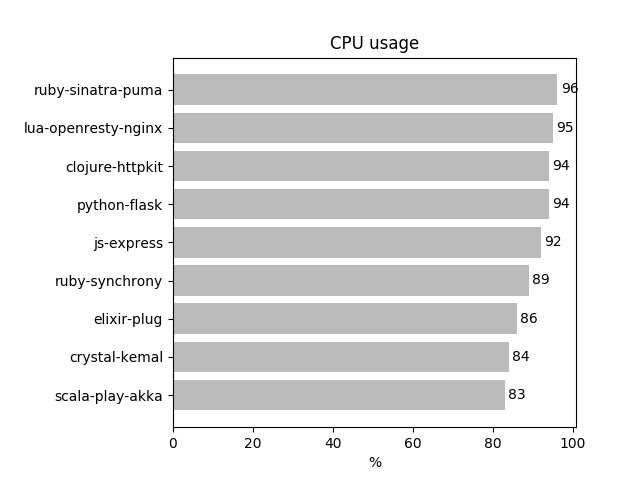
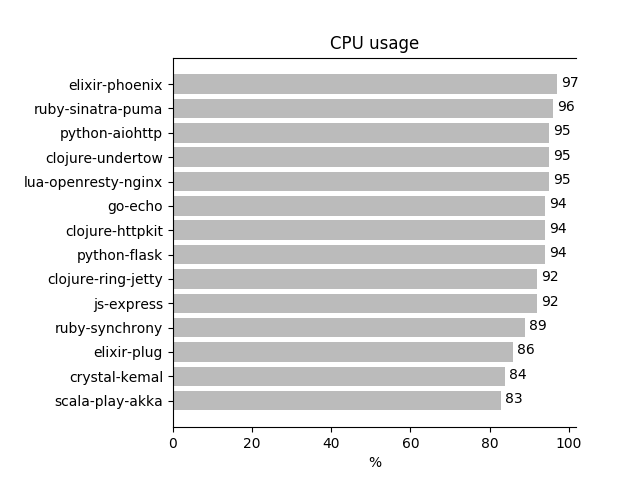
Update results

diff --git a/plot.py b/plot.py
@@ -51,6 +51,7 @@ def create_chart(data, outdir, name, endpoint='/db', stat_name='reqs', legend='R
     plt.xlabel(legend)
     plt.title(name)
     plt.subplots_adjust(left=0.27)
+    plt.gca().spines['right'].set_visible(False)
     plt.savefig(os.path.join(outdir, name.replace(' ', '_') + '.png'), transparent=False)
     plt.cla()
     plt.clf()
@@ -61,12 +62,12 @@ def generate_all(in_file, outdir):
         raise 'No endpoint found in the filename!'
     e = '/' + m.group()
     chart_it = partial(create_chart, generate_data_for_chart(in_file), os.path.join(outdir, e[1:]))
-    chart_it('Requests per second', endpoint=e, stat_name='reqs', legend='Requests', color='#6497b1')
+    chart_it('Requests per second', endpoint=e, stat_name='reqs', legend='Requests', color='#ffe084')
     chart_it('Memory usage', endpoint=e, stat_name='mem', legend='Mb', color='#dec3c3')
     chart_it('CPU usage', endpoint=e, stat_name='cpu', legend='%', color='#bbbbbb')
     chart_it('Failed requests', endpoint=e, stat_name='failed', legend='requests', color='#ff6f69')
     chart_it('Latency for 50-percentile', endpoint=e, stat_name='lat-50', legend='seconds', color='#3c2f2f')
-    chart_it('Latency for 99-percentile', endpoint=e, stat_name='lat-99', legend='seconds', color='#3385c6')
+    chart_it('Latency for 99-percentile', endpoint=e, stat_name='lat-99', legend='seconds', color='#9F8170')
 
 if __name__ == '__main__':
     generate_all(ARGS.file, ARGS.dir)

diff --git a/_results/benchmark-results-json-2sec.md b/_results/benchmark-results-json-2sec.md
@@ -196,3 +196,113 @@ Results:
 | Test command                    | wrk -t12 -c400 -d240s http://localhost:8080/json -s wrk_report.lua --timeout 10s  |
 | Data read                       | 600.79MB  |
 ==========================
+
+==========================
+Date: Tue Mar 10 12:00:26 2020
+Results:
+
+| Param                           | Value |
+| :---                            | :--- |
+| Framework                       | clojure-ring-jetty |
+| Endpoint                        | /json  |
+| Endpoint sleep sec. (if applicable) | 2  |
+| Requests/sec                    | 1448.08 |
+| Req. Latency (Avg.)             | 167.02ms |
+| Req. Latency (%'le - latency)   | [('50', '0.163'), ('70', '0.201'), ('90', '0.282'), ('99', '0.503'), ('99.9', '0.978'), ('99.999', '6.128')] |
+| 5xx/4xx responses               | 0 |
+| N timeout-ed                    | 0  |
+| Memory used (mean), Mib         | 143 |
+| Memory used samples, Mib        | [143, 143, 143, 143, 143] |
+| CPU used (mean), %              | 92 |
+| CPU used samples, %             | [99.9, 93.8, 87.5, 87.5, 93.8] |
+| Test command                    | wrk -t12 -c400 -d240s http://localhost:8080/json -s wrk_report.lua --timeout 10s  |
+| Data read                       | 147.98MB  |
+==========================
+
+==========================
+Date: Tue Mar 10 12:36:30 2020
+Results:
+
+| Param                           | Value |
+| :---                            | :--- |
+| Framework                       | go-echo |
+| Endpoint                        | /json  |
+| Endpoint sleep sec. (if applicable) | 2  |
+| Requests/sec                    | 4837.93 |
+| Req. Latency (Avg.)             | 48.54ms |
+| Req. Latency (%'le - latency)   | [('50', '0.051'), ('70', '0.056'), ('90', '0.063'), ('99', '0.082'), ('99.9', '0.111'), ('99.999', '0.146')] |
+| 5xx/4xx responses               | 0 |
+| N timeout-ed                    | 0  |
+| Memory used (mean), Mib         | 13 |
+| Memory used samples, Mib        | [13, 13, 13, 13, 13] |
+| CPU used (mean), %              | 94 |
+| CPU used samples, %             | [99.9, 87.5, 93.8, 93.8, 93.8] |
+| Test command                    | wrk -t12 -c400 -d240s http://localhost:8080/json -s wrk_report.lua --timeout 10s  |
+| Data read                       | 561.96MB  |
+==========================
+
+==========================
+Date: Tue Mar 10 14:27:22 2020
+Results:
+
+| Param                           | Value |
+| :---                            | :--- |
+| Framework                       | clojure-undertow |
+| Endpoint                        | /json  |
+| Endpoint sleep sec. (if applicable) | 2  |
+| Requests/sec                    | 1686.77 |
+| Req. Latency (Avg.)             | 152.03ms |
+| Req. Latency (%'le - latency)   | [('50', '0.137'), ('70', '0.151'), ('90', '0.196'), ('99', '0.356'), ('99.9', '4.857'), ('99.999', '7.300')] |
+| 5xx/4xx responses               | 0 |
+| N timeout-ed                    | 0  |
+| Memory used (mean), Mib         | 160 |
+| Memory used samples, Mib        | [159, 159, 160, 161, 161] |
+| CPU used (mean), %              | 95 |
+| CPU used samples, %             | [93.8, 93.8, 99.9, 93.8, 93.8] |
+| Test command                    | wrk -t12 -c400 -d240s http://localhost:8080/json -s wrk_report.lua --timeout 10s  |
+| Data read                       | 169.67MB  |
+==========================
+
+==========================
+Date: Tue Mar 10 15:57:09 2020
+Results:
+
+| Param                           | Value |
+| :---                            | :--- |
+| Framework                       | elixir-phoenix |
+| Endpoint                        | /json  |
+| Endpoint sleep sec. (if applicable) | 2  |
+| Requests/sec                    | 1535.64 |
+| Req. Latency (Avg.)             | 154.63ms |
+| Req. Latency (%'le - latency)   | [('50', '0.153'), ('70', '0.155'), ('90', '0.168'), ('99', '0.206'), ('99.9', '0.279'), ('99.999', '0.355')] |
+| 5xx/4xx responses               | 0 |
+| N timeout-ed                    | 0  |
+| Memory used (mean), Mib         | 67 |
+| Memory used samples, Mib        | [69, 66, 66, 66, 66] |
+| CPU used (mean), %              | 97 |
+| CPU used samples, %             | [99.9, 93.3, 93.8, 99.9, 99.9] |
+| Test command                    | wrk -t12 -c400 -d240s http://localhost:8080/json -s wrk_report.lua --timeout 10s  |
+| Data read                       | 181.97MB  |
+==========================
+
+==========================
+Date: Tue Mar 10 16:28:17 2020
+Results:
+
+| Param                           | Value |
+| :---                            | :--- |
+| Framework                       | python-aiohttp |
+| Endpoint                        | /json  |
+| Endpoint sleep sec. (if applicable) | 2  |
+| Requests/sec                    | 2145.71 |
+| Req. Latency (Avg.)             | 110.18ms |
+| Req. Latency (%'le - latency)   | [('50', '0.110'), ('70', '0.111'), ('90', '0.117'), ('99', '0.150'), ('99.9', '0.223'), ('99.999', '0.371')] |
+| 5xx/4xx responses               | 0 |
+| N timeout-ed                    | 0  |
+| Memory used (mean), Mib         | 33 |
+| Memory used samples, Mib        | [33, 33, 33, 33, 33] |
+| CPU used (mean), %              | 95 |
+| CPU used samples, %             | [93.3, 99.9, 93.8, 87.5, 99.9] |
+| Test command                    | wrk -t12 -c400 -d240s http://localhost:8080/json -s wrk_report.lua --timeout 10s  |
+| Data read                       | 240.89MB  |
+==========================

diff --git a/_results/benchmark-results-db-2sec.md b/_results/benchmark-results-db-2sec.md
@@ -195,3 +195,91 @@ Results:
 | Test command                    | wrk -t12 -c400 -d240s http://localhost:8080/db -s wrk_report.lua --timeout 10s  |
 | Data read                       | 1.49GB  |
 ==========================
+
+==========================
+Date: Tue Mar 10 12:09:09 2020
+Results:
+
+| Param                           | Value |
+| :---                            | :--- |
+| Framework                       | clojure-ring-jetty |
+| Endpoint                        | /db  |
+| Endpoint sleep sec. (if applicable) | 2  |
+| Requests/sec                    | 33.08 |
+| Req. Latency (Avg.)             | 4.36s |
+| Req. Latency (%'le - latency)   | [('50', '4.043'), ('70', '6.391'), ('90', '8.632'), ('99', '9.876'), ('99.9', '9.981'), ('99.999', '9.998')] |
+| 5xx/4xx responses               | 0 |
+| N timeout-ed                    | 1964  |
+| Memory used (mean), Mib         | 206 |
+| Memory used samples, Mib        | [197, 208, 201, 210, 214] |
+| CPU used (mean), %              | 93 |
+| CPU used samples, %             | [94.1, 94.1, 94.1, 88.2, 94.1] |
+| Test command                    | wrk -t12 -c400 -d240s http://localhost:8080/db -s wrk_report.lua --timeout 10s  |
+| Data read                       | 228.72MB  |
+==========================
+
+==========================
+Date: Tue Mar 10 12:44:10 2020
+Results:
+
+| Param                           | Value |
+| :---                            | :--- |
+| Framework                       | go-echo |
+| Endpoint                        | /db  |
+| Endpoint sleep sec. (if applicable) | 2  |
+| Requests/sec                    | 225.52 |
+| Req. Latency (Avg.)             | 1.04s |
+| Req. Latency (%'le - latency)   | [('50', '1.042'), ('70', '1.443'), ('90', '1.849'), ('99', '2.108'), ('99.9', '2.510'), ('99.999', '2.945')] |
+| 5xx/4xx responses               | 0 |
+| N timeout-ed                    | 0  |
+| Memory used (mean), Mib         | 29 |
+| Memory used samples, Mib        | [28, 29, 29, 30] |
+| CPU used (mean), %              | 46 |
+| CPU used samples, %             | [44.4, 47.1, 50.0, 41.2, 47.1] |
+| Test command                    | wrk -t12 -c400 -d240s http://localhost:8080/db -s wrk_report.lua --timeout 10s  |
+| Data read                       | 1.94GB  |
+==========================
+
+==========================
+Date: Tue Mar 10 14:34:37 2020
+Results:
+
+| Param                           | Value |
+| :---                            | :--- |
+| Framework                       | clojure-undertow |
+| Endpoint                        | /db  |
+| Endpoint sleep sec. (if applicable) | 2  |
+| Requests/sec                    | 29.09 |
+| Req. Latency (Avg.)             | 5.58s |
+| Req. Latency (%'le - latency)   | [('50', '5.628'), ('70', '7.115'), ('90', '8.850'), ('99', '9.870'), ('99.9', '9.986'), ('99.999', '9.999')] |
+| 5xx/4xx responses               | 0 |
+| N timeout-ed                    | 1512  |
+| Memory used (mean), Mib         | 217 |
+| Memory used samples, Mib        | [211, 216, 211, 223, 224] |
+| CPU used (mean), %              | 78 |
+| CPU used samples, %             | [68.8, 81.2, 76.5, 82.4, 81.2] |
+| Test command                    | wrk -t12 -c400 -d240s http://localhost:8080/db -s wrk_report.lua --timeout 10s  |
+| Data read                       | 201.26MB  |
+==========================
+
+==========================
+Date: Tue Mar 10 16:44:54 2020
+Results:
+
+| Param                           | Value |
+| :---                            | :--- |
+| Framework                       | python-aiohttp |
+| Endpoint                        | /db  |
+| Endpoint sleep sec. (if applicable) | 2  |
+| Requests/sec                    | 70.94 |
+| Req. Latency (Avg.)             | 3.30s |
+| Req. Latency (%'le - latency)   | [('50', '3.295'), ('70', '3.737'), ('90', '4.267'), ('99', '5.254'), ('99.9', '5.861'), ('99.999', '6.961')] |
+| 5xx/4xx responses               | 0 |
+| N timeout-ed                    | 0  |
+| Memory used (mean), Mib         | 71 |
+| Memory used samples, Mib        | [65, 68, 71, 73, 77] |
+| CPU used (mean), %              | 83 |
+| CPU used samples, %             | [72.2, 88.9, 82.4, 84.2, 88.2] |
+| Test command                    | wrk -t12 -c400 -d240s http://localhost:8080/db -s wrk_report.lua --timeout 10s  |
+| Data read                       | 546.73MB  |
+==========================

diff --git a/README.md b/README.md
@@ -26,7 +26,7 @@
 
 - Simple random tiny JSON response.
   ```bash
-  wrk -t12 -c400 -d300s http://vagrant-machine:8080/json
+  wrk -t12 -c400 -d240s http://vagrant-machine:8080/json --timeout 10s
   ```
 
   Detailed results can be found [here](./_results/benchmark-results-json-2sec.md).
@@ -40,7 +40,7 @@
 - Postgres DB call that does `sleep random(2 sec)` mimicking random long queries and random js response
   generated 100 times to simulate post-processing.
   ```bash
-  wrk -t12 -c400 -d240s http://vagrant-machine:8080/db -s wrk_report.lua --timeout 10s
+  wrk -t12 -c400 -d240s http://vagrant-machine:8080/db --timeout 10s
   ```
 
   Detailed results can be found [here](./_results/benchmark-results-db-2sec.md).
